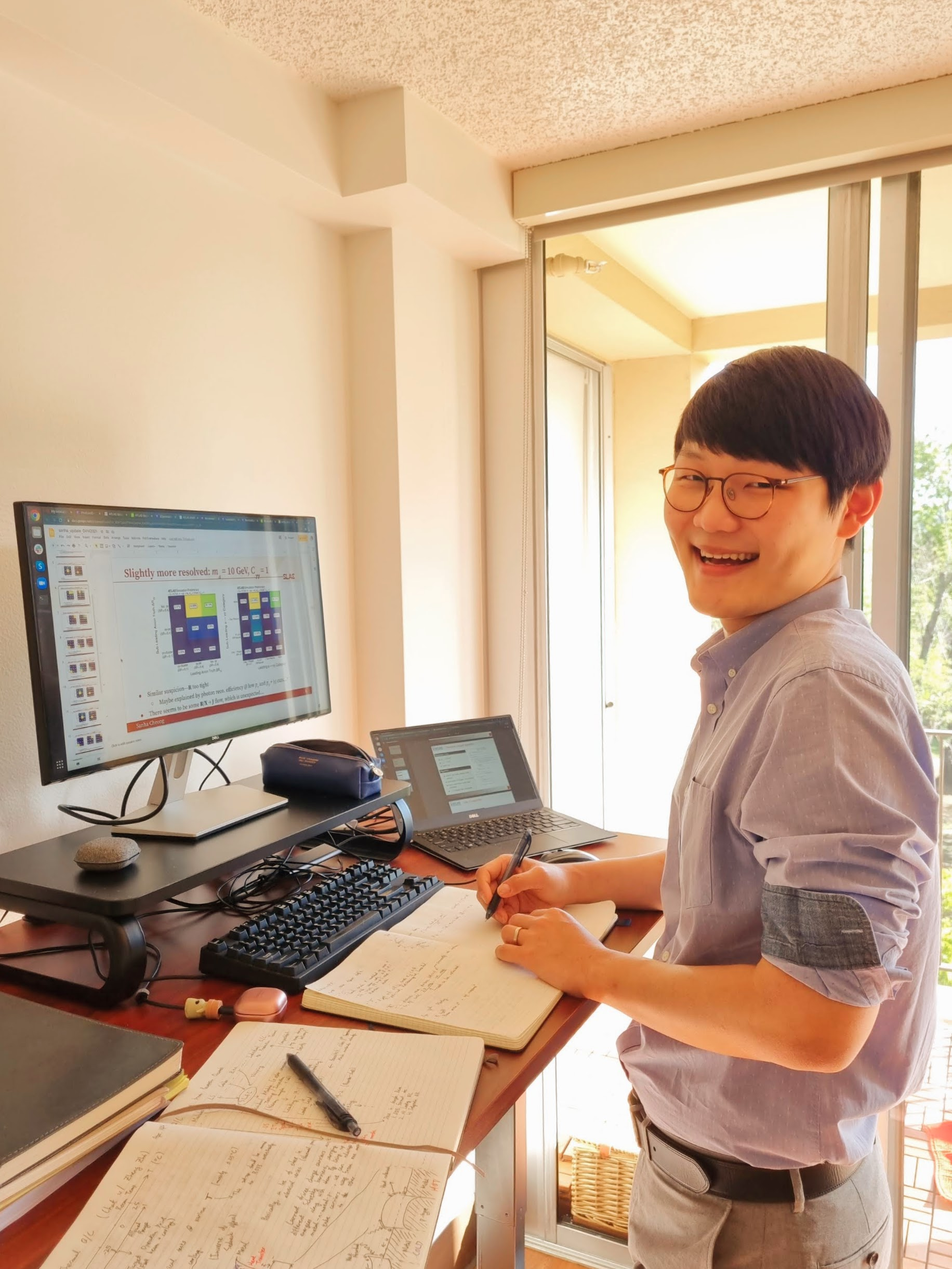
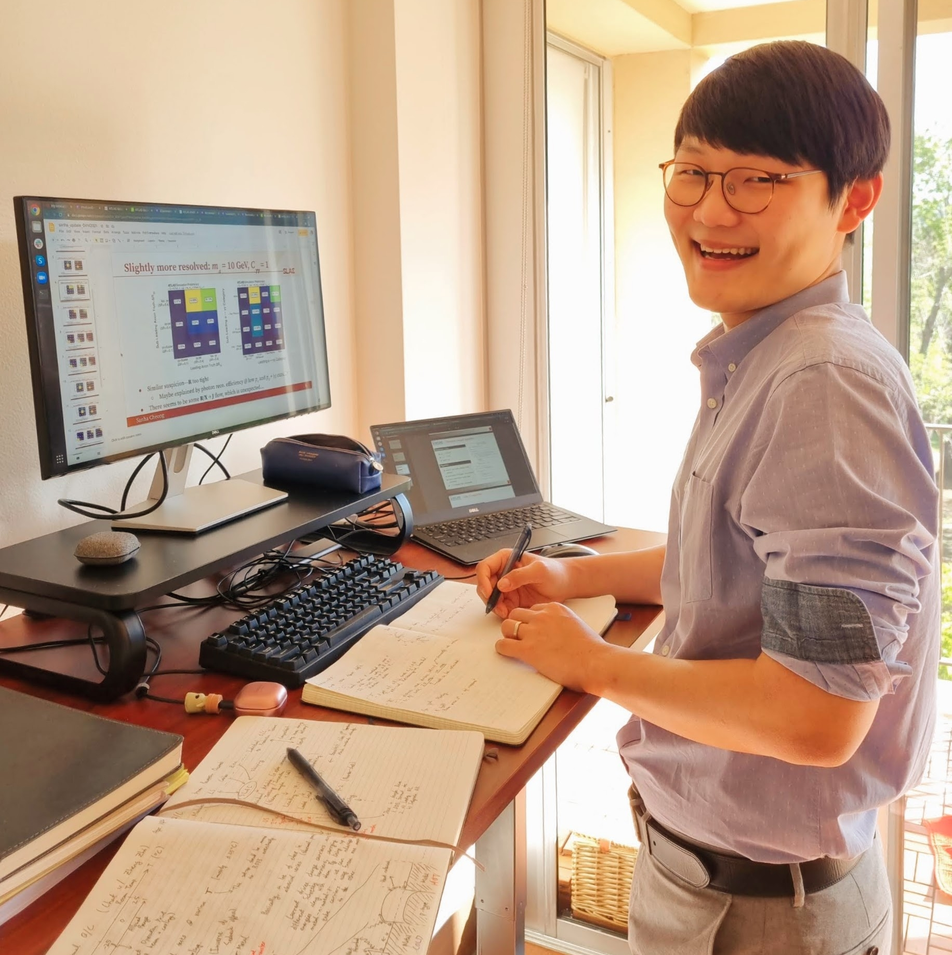
Profile photo change, home contents update, jekyll Gemfile update

diff --git a/index.html b/index.html
@@ -7,17 +7,26 @@ layout: home
 <div class="default-text">
   <h3>About Me</h3>
   <p>
-  <img src="{{ site.base }}assets/img/profile.jpg" style="float: left; margin:0px; padding: 5px 20px 5px 0px;" align="left" width=240px height=240px/>
-  I am a Physics PhD candidate at <a href="https://www.stanford.edu" target="_blank">Stanford University</a> working on the <a href="https://atlas.cern" target="_blank">ATLAS Experiment</a> at the <a href="https://atlas.slac.stanford.edu/", target="_blank">SLAC Group</a>. My main physics interests include <a href="https://en.wikipedia.org/wiki/Higgs_boson">the Higgs</a>, <a href="https://en.wikipedia.org/wiki/Dark_matter">dark matter</a>, and exotic signatures of potential new physics. In order to pursue such physics and improve the reach of the ATLAS Experiment, I work on the developement of new data analysis methods in particle physics including applications of machine learning, as well as the development of future detectors. More broadly speaking, I am interested in the intersection between particle physics and cosmology, the interface between theories and experiments, the applications of machine learning and other novel algorithms in physics research, and artificial intelligence. I am also very passionate about STEM education, advising/mentoring, and diversity &amp; inclusion in the STEM academia. I use he/him pronouns.
+    <img src="{{ site.base }}assets/img/profile.jpg" style="float: right; margin:0px; padding: 5px 5px 10px 20px;" align="right" width=240px height=240px/>
+    I am a Physics PhD candidate at <a href="https://www.stanford.edu" target="_blank">Stanford University</a>. I mainly work on the <a href="https://atlas.cern" target="_blank">ATLAS Experiment</a> located at <a href="https://home.cern/", target="_blank">CERN</a>. Recently, I also started working on another experiment called <a href="https://news.fnal.gov/2019/09/magis-100-atoms-in-free-fall-to-probe-dark-matter-gravity-and-quantum-science/", target="_blank">MAGIS-100</a>, a new fundamental physics experiment utilizing atom interferometry, which will be installed at <a href="https://www.fnal.gov/", target="_blank">Fermilab</a>.
   </p>
   <p>
-  Before coming to Stanford, I did my undergraduate studies at <a href="https://www.rochester.edu" target="_blank">University of Rochester</a>. I graduated in May 2017 with a B.S. in Physics &amp; Astronomy with Highest Distinction and a B.A. in Mathematics. As an undergrad, I worked with <a href="https://www.pas.rochester.edu/people/faculty/demina_regina/index.html" target="_blank">Prof. Regina Demina</a> on observational cosmology research, developing a new data analysis algorithm for studying galaxy distributions and large-scale structures in our universe and preparing for the <a href="https://desi.lbl.gov" target="_blank">DESI</a> project.
+    My main physics interests include <a href="https://en.wikipedia.org/wiki/Higgs_boson">the Higgs</a>, <a href="https://en.wikipedia.org/wiki/Dark_matter">dark matter</a>, and exotic signatures of new physics. In order to pursue such physics, I mainly work on the development of new data analysis methods, including applications of machine learning, and the development of future experimental equipments, like silicon pixel detectors. Visit my <a href="research">research</a> page to learn more.
   </p>
   <p>
-  Outside of physics, I spend time writing, playing and watching basketball, playing around with non-physics datasets, and (most importantly) sleeping.
+    I am also very passionate about STEM education, advising/mentoring, and diversity &amp; inclusion in the STEM academia. I have been developing and teaching <a href="https://phys266.stanford.edu/">PHYSICS 166/266</a>, a new course on statistics for physics students. I also work with <a href="https://ctl.stanford.edu/">Stanford Center for Teaching &amp; Learning</a> to train other teaching assistants and improve teaching across the university. Visit my <a href="teaching">teaching</a> page to learn more.
+  </p>
+  <p>
+    Before coming to Stanford, I did my undergraduate studies at <a href="https://www.rochester.edu" target="_blank">University of Rochester</a>. I graduated in May 2017 with a B.S. in Physics &amp; Astronomy with Highest Distinction and a B.A. in Mathematics. With <a href="https://www.pas.rochester.edu/people/faculty/demina_regina/index.html" target="_blank">Prof. Regina Demina</a>, I worked on observational cosmology research and formed the Rochester cosmology group. More specifically, I developed a new data analysis algorithm for studying galaxy distributions and large-scale structures in our universe, in preparation for the <a href="https://desi.lbl.gov" target="_blank">DESI</a> project.
+  </p>
+  <p>
+    Outside of physics, I spend time writing, playing and watching basketball, playing around with non-physics datasets, and (most importantly) sleeping.
   </p>
 
-  <h3>Find Me</h3>
+  <h3>Get in Touch</h3>
+  <p>
+    I use he/him pronouns.
+  </p>
   <p>
     <ul class="nobullet">
       {% for category in site.data.contacts %}

diff --git a/phy_GRE.html b/phy_GRE.html
@@ -1,10 +1,10 @@
 ---
 layout: pages
 title: Physics GRE
-permalink: teaching_advising/phy_GRE/
+permalink: teaching/phy_GRE/
 ---
 
-<style type="text/css"> @import url("{{ site.base}}assets/css/teaching_advising_bg.css"); </style>
+<style type="text/css"> @import url("{{ site.base}}assets/css/teaching_bg.css"); </style>
 
 
 <div class="default-text">
@@ -14,7 +14,7 @@ permalink: teaching_advising/phy_GRE/
 	<h3>GRE in Physics Graduate Admissions</h3>
 
 	<p>
-	The <a href="https://www.ets.org/gre/" target="_blank">GRE</a> stands for the <i>Graduate Record Examination</i> and is a standardized test used for admissions to graduate schools and business schools. Just like the SAT, there are the General and the Subject Tests. 
+	The <a href="https://www.ets.org/gre/" target="_blank">GRE</a> stands for the <i>Graduate Record Examination</i> and is a standardized test used for admissions to graduate schools and business schools. Just like the SAT, there are the General and the Subject Tests.
 	</p>
 	<p>
 	The <a href="https://www.ets.org/gre/revised_general/about" target="_blank">General GRE</a> measures basic English abilities (critical reading &amp; analytical writing) and quantitative skills. For physics major students, the quantitative section should be pretty easy, though one might need some practice to familiarize oneself with the test format. If a student's undergraduate degree is from an institution whose primary language of instruction is English, the English abilities are usually not a huge concern in the admissions process for Physics graduate programs in US. (It is much more important for an international applicant from a non-English institution, though it is still not the major deciding factor.)
@@ -34,7 +34,7 @@ permalink: teaching_advising/phy_GRE/
 
 <div class="default-text" id="tips">
 	<h3>Basic Info &amp; Tips</h3>
-	
+
 	<p>
 	The PGRE consists of 100 <i>multiple-choice</i> (5 options) problems in 170 minutes, with material taken from practically <i>all</i> possible <a href="https://en.wikipedia.org/wiki/GRE_Physics_Test" target="_blank">undergraduate physics topics</a>.
 	</p>
@@ -91,7 +91,7 @@ permalink: teaching_advising/phy_GRE/
 	<h3>Study Materials</h3>
 
 	<p>
-	Here are some conceptual review notes that my friend <i>Greg Loges</i> (who is now a grad student at UW Madison) and I wrote when we ran a PGRE tutoring program at University of Rochester. (Really, Greg wrote most of it.) The numbers in the parentheses are the relative weights of the topics in the PGRE. 
+	Here are some conceptual review notes that my friend <i>Greg Loges</i> (who is now a grad student at UW Madison) and I wrote when we ran a PGRE tutoring program at University of Rochester. (Really, Greg wrote most of it.) The numbers in the parentheses are the relative weights of the topics in the PGRE.
 	</p>
 	<table style="width: 100%;">
 		<tr>
@@ -111,7 +111,7 @@ permalink: teaching_advising/phy_GRE/
 			<td><a href="{{ site.share_dir }}pgre_lab_methods.pdf" target="_blank">Laboratory Methods</a> (6%)</td>
 		</tr>
 		<tr>
-			<td><a href="{{ site.share_dir }}pgre_special_topics.pdf" target="_blank">Special Topics</a> (9%)</td>	
+			<td><a href="{{ site.share_dir }}pgre_special_topics.pdf" target="_blank">Special Topics</a> (9%)</td>
 			<td><a href="{{ site.share_dir }}pgre_summary.pdf" target="_blank">Short Overall Summary</a></td>
 		</tr>
 	</table>

diff --git a/_includes/navbar.html b/_includes/navbar.html
@@ -3,12 +3,12 @@
 	<li class="navbar"><a href="{{ site.base }}blog/">Blog</a></li>
 	<li class="navbar">
 	<div class="dropdown" style="float: right">
-		<a href="{{ site.base }}teaching_advising/">Teaching</a>
+		<a href="{{ site.base }}teaching/">Teaching</a>
 		<div class="dropdown-content">
-			<a href="{{ site.base }}teaching_advising/phy_GRE/">Physics GRE</a>
+			<a href="{{ site.base }}teaching/phy_GRE/">Physics GRE</a>
 		</div>
 		</div>
 	</li>
 	<li class="navbar"><a href="{{ site.base }}research/">Research</a></li>
 	<li class="navbar"><a href="{{ site.base }}">Home</a></li>
-</ul> 
+</ul>
